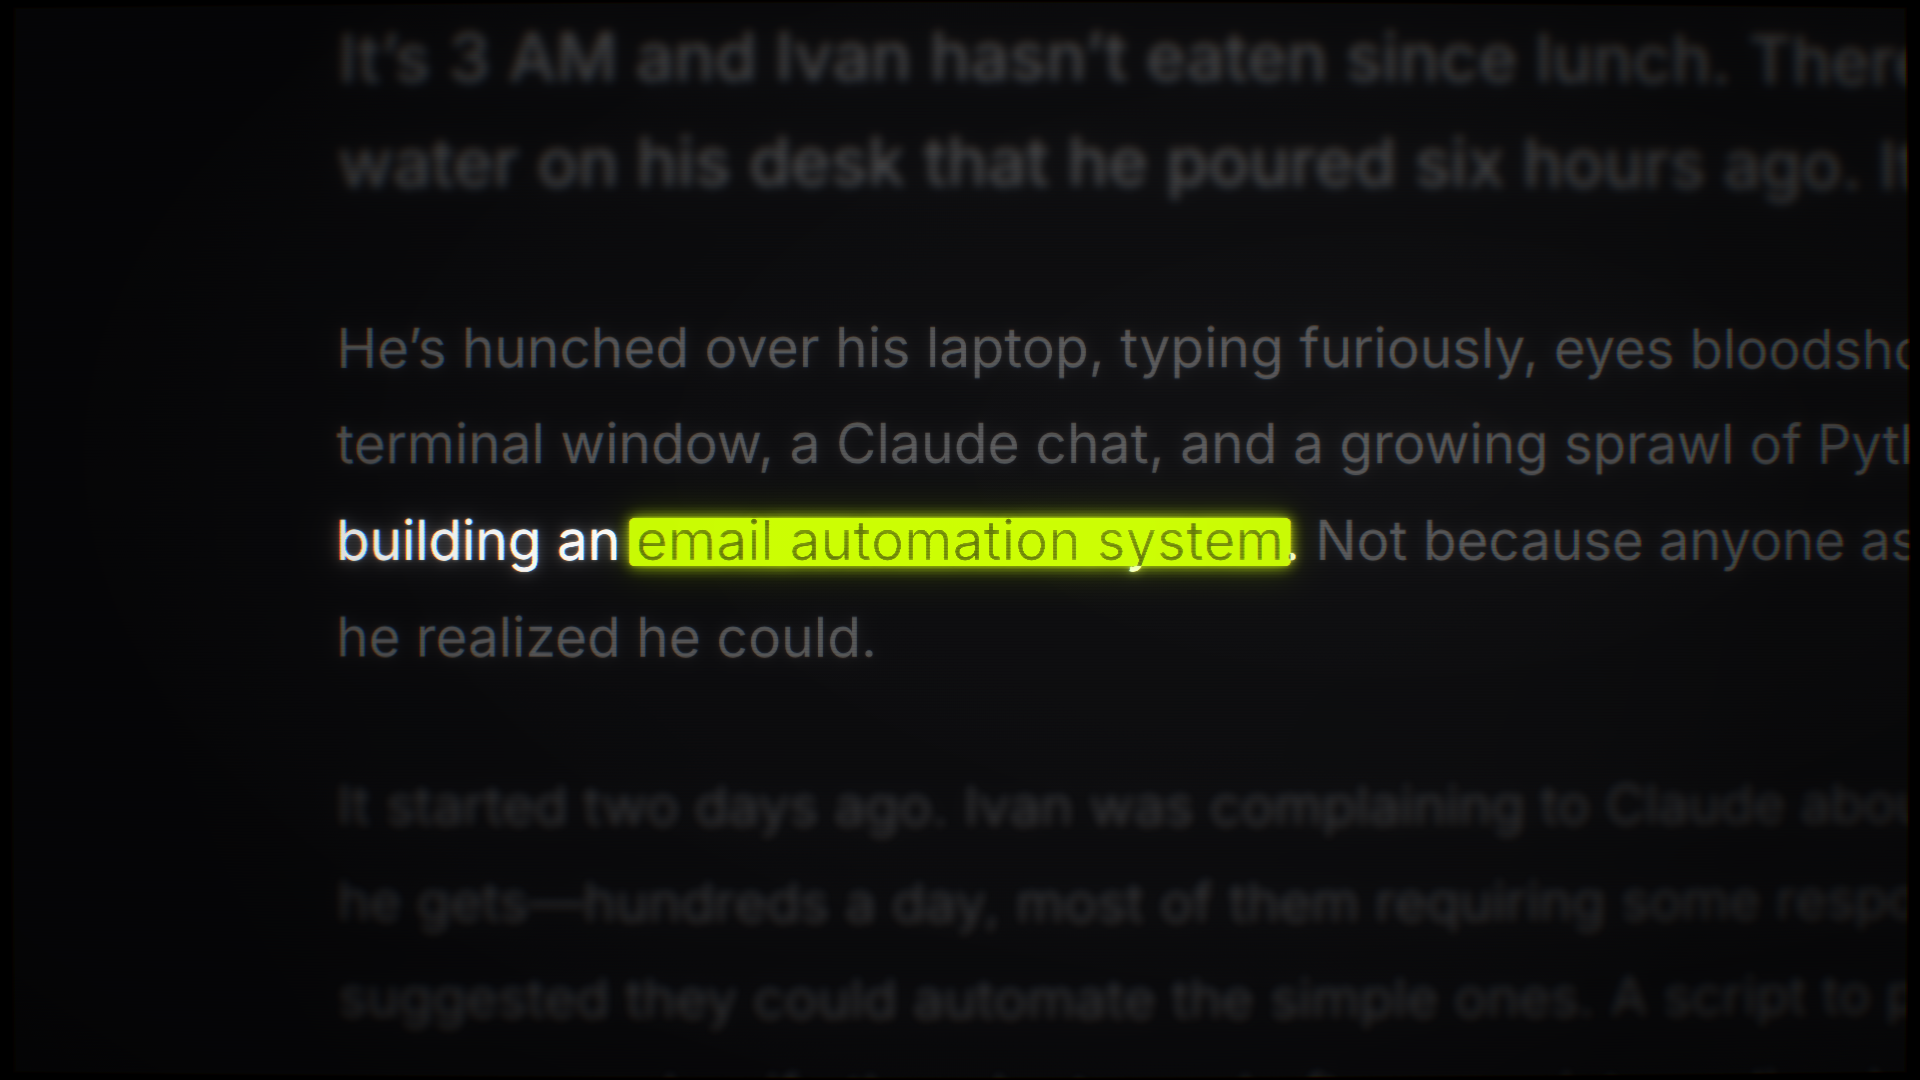
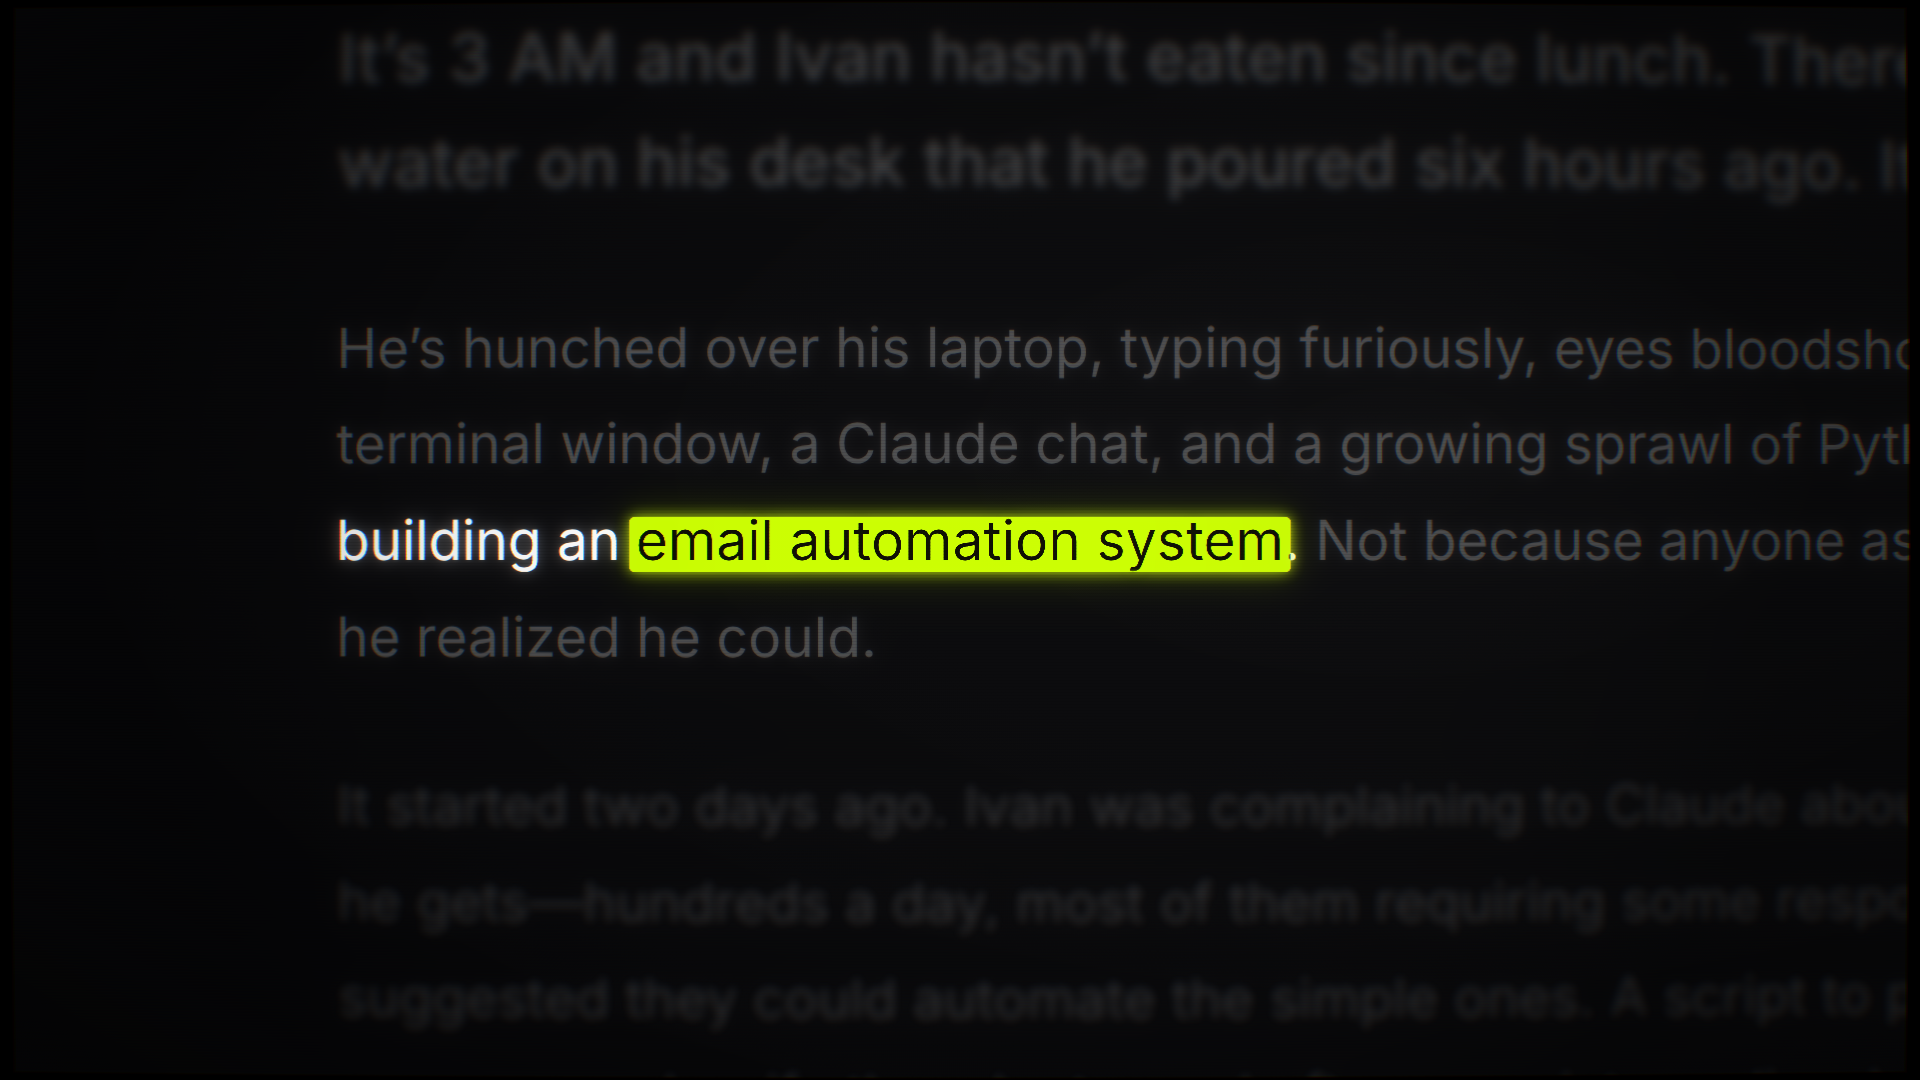
Marker: cover descenders and keep ink dark under the glow
Bar now runs cap height to descender bottom (the g in 'light' was poking out white).
Glow pass no longer lifts the dark ink on the lime bar to olive.

Claude-Session: https://claude.ai/code/session_01S3METqLcC267em1bXLSFsD

Changed region(s): [[0.3125, 0.4889, 0.6875, 0.55]]

diff --git a/life_on_screen/page.html b/life_on_screen/page.html
@@ -75,7 +75,7 @@ function buildMarker(id, rects, p, glow, op){
   const src=document.getElementById(id).closest('p');
   rects.forEach((r,i)=>{
     const w=Math.max(0,Math.min(r.w,done)); done-=r.w; if(w<=0) return;
-    const top=r.y+r.h*0.17, h=r.h*0.72;
+    const top=r.y+r.h*0.15, h=r.h*0.84;   // cap height to the bottom of descenders (g, y, p stay inked)
     const bar=document.createElement('div'); bar.className='bar';
     Object.assign(bar.style,{left:r.x-3+'px',top:top+'px',width:w+6+'px',height:h+'px',
       boxShadow:`0 0 7px rgba(204,255,0,${0.30*glow})`});

diff --git a/life_on_screen/post.py b/life_on_screen/post.py
@@ -30,7 +30,7 @@ VIG = (1 - 0.30 * np.clip(r2 / 0.75, 0, 1) ** 1.5).astype(np.float32)[..., None]
 def glow(cv):
     core = cv2.GaussianBlur(cv, (0, 0), 1.6) * 0.7
     halo = cv2.GaussianBlur(cv, (0, 0), 7) * 0.40 + cv2.GaussianBlur(cv, (0, 0), 20) * 0.24   # tighter than v4
-    out = (cv + core * 0.6 + halo) * SCAN
+    out = (cv + core * 0.3 + halo) * SCAN      # light core bloom so dark ink on the marker stays dark
     m = out.max(axis=2, keepdims=True)
     return out / np.maximum(1.0, m / 255.0)
 
@@ -77,7 +77,15 @@ def main():
             e = ease_in(t)
             cv = cv * (1 + 6 * e) + 255 * e * e
             cv = np.clip(cv, 0, 255)
+        raw = cv.copy()
         cv = glow(cv)
+        # keep the ink on the highlighter dark: where dark pixels sit on the lime bar, undo the glow
+        bar = ((raw[..., 1] > 120) & (raw[..., 0] < 90)).astype(np.uint8)       # lime pixels (BGR)
+        bar = cv2.morphologyEx(bar, cv2.MORPH_CLOSE, np.ones((11, 11), np.uint8))  # fill the letters
+        bar = cv2.erode(bar, np.ones((5, 5), np.uint8))                           # stay inside the bar
+        lum = raw.max(axis=2) / 255.0
+        ink = (cv2.GaussianBlur(bar.astype(np.float32), (0, 0), 0.8) * np.clip((0.55 - lum) / 0.3, 0, 1))[..., None]
+        cv = cv * (1 - ink) + raw * SCAN * ink
         cv = np.dstack([cv2.remap(np.ascontiguousarray(cv[..., c]), *MAPS[c], cv2.INTER_LINEAR, borderValue=0)
                         for c in range(3)])
         if n < WAR:
